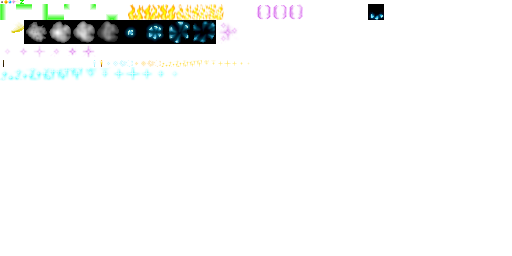
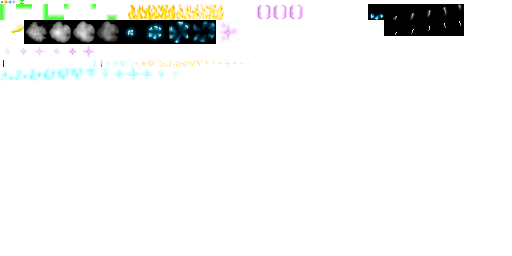
- Melee particle systems.

Changed region(s): [[0.75, 0.0, 0.9062, 0.1562]]

diff --git a/include/tpublic/Data/Ability.h b/include/tpublic/Data/Ability.h
@@ -463,6 +463,8 @@ namespace tpublic
 							m_sourceParticleSystemId = aMember->m_sourceContext->m_persistentIdTable->GetId(DataType::ID_PARTICLE_SYSTEM, aMember->GetIdentifier());
 						else if (aMember->m_name == "target_particle_system")
 							m_targetParticleSystemId = aMember->m_sourceContext->m_persistentIdTable->GetId(DataType::ID_PARTICLE_SYSTEM, aMember->GetIdentifier());
+						else if (aMember->m_name == "melee_particle_system")
+							m_meleeParticleSystemId = aMember->m_sourceContext->m_persistentIdTable->GetId(DataType::ID_PARTICLE_SYSTEM, aMember->GetIdentifier());
 						else if (aMember->m_name == "must_have_nearby_entity")
 							m_mustHaveNearbyEntityId = aMember->m_sourceContext->m_persistentIdTable->GetId(DataType::ID_ENTITY, aMember->GetIdentifier());
 						else if (aMember->m_name == "flags")
@@ -518,6 +520,7 @@ namespace tpublic
 				aWriter->WriteUInt(m_projectileParticleSystemId);
 				aWriter->WriteUInt(m_sourceParticleSystemId);
 				aWriter->WriteUInt(m_targetParticleSystemId);
+				aWriter->WriteUInt(m_meleeParticleSystemId);
 				aWriter->WriteInt(m_castTime);
 				aWriter->WriteUInt(m_aoeRadius);
 				aWriter->WriteUInt(m_aoeCap);
@@ -574,6 +577,8 @@ namespace tpublic
 				if (!aReader->ReadUInt(m_sourceParticleSystemId))
 					return false;
 				if (!aReader->ReadUInt(m_targetParticleSystemId))
+					return false;
+				if (!aReader->ReadUInt(m_meleeParticleSystemId))
 					return false;
 				if (!aReader->ReadInt(m_castTime))
 					return false;
@@ -643,6 +648,7 @@ namespace tpublic
 			uint32_t											m_projectileParticleSystemId = 0;
 			uint32_t											m_sourceParticleSystemId = 0;
 			uint32_t											m_targetParticleSystemId = 0;
+			uint32_t											m_meleeParticleSystemId = 0;
 			uint32_t											m_aoeRadius = 0;
 			uint32_t											m_aoeCap = 0;
 			std::vector<std::unique_ptr<DirectEffectEntry>>		m_directEffects;
